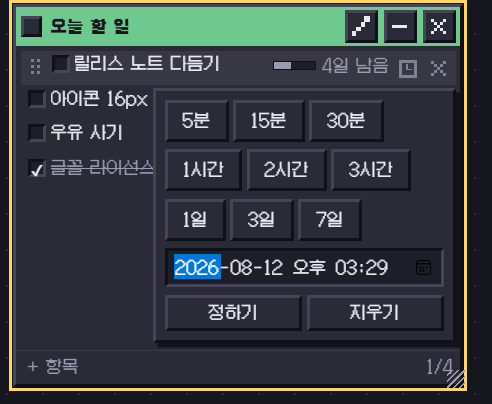
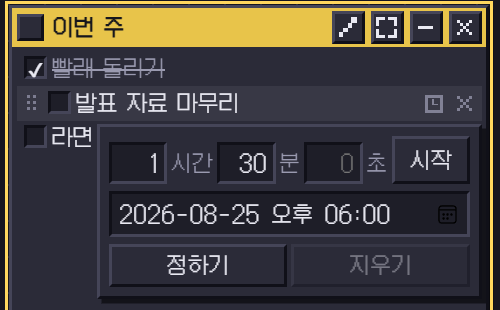
마감 팝업 스크린샷을 타이머로 새로 찍고, 좁은 노트에서 '시간' 이 갈라지던 것
- docs/due.png 가 아직 옛 프리셋 아홉 개를 보여 주고 있었다.
- 숫자 칸이 넓어 좁은 노트에서는 한 줄이 접히고 '시간' 이 '시 / 간' 으로
  갈라졌다. 칸을 줄이고 단위 이름은 갈라지지 않게 못 박는다.

diff --git a/src/notes/note.css b/src/notes/note.css
@@ -508,8 +508,9 @@
 }
 
 .duepop__num {
-  /* 세 자리까지는 편하게 — 90 분처럼 단위를 넘겨 적는 것을 막지 않는다. */
-  width: 3.5em;
+  /* 세 자리까지는 들어가되 더 넓히지 않는다. 좁은 노트에서는 이 한 줄이
+     통째로 접혀 '시간' 이 '시 / 간' 으로 갈라진다. */
+  width: 2.8em;
   padding: 2px 4px;
   background: var(--face-2);
   color: var(--text);
@@ -530,6 +531,8 @@
 
 .duepop__unitname {
   color: var(--text-dim);
+  /* 단위 이름은 절대 갈라지지 않는다 — 갈라지면 무슨 단위인지 읽을 수 없다. */
+  white-space: nowrap;
 }
 
 .duepop__start {
